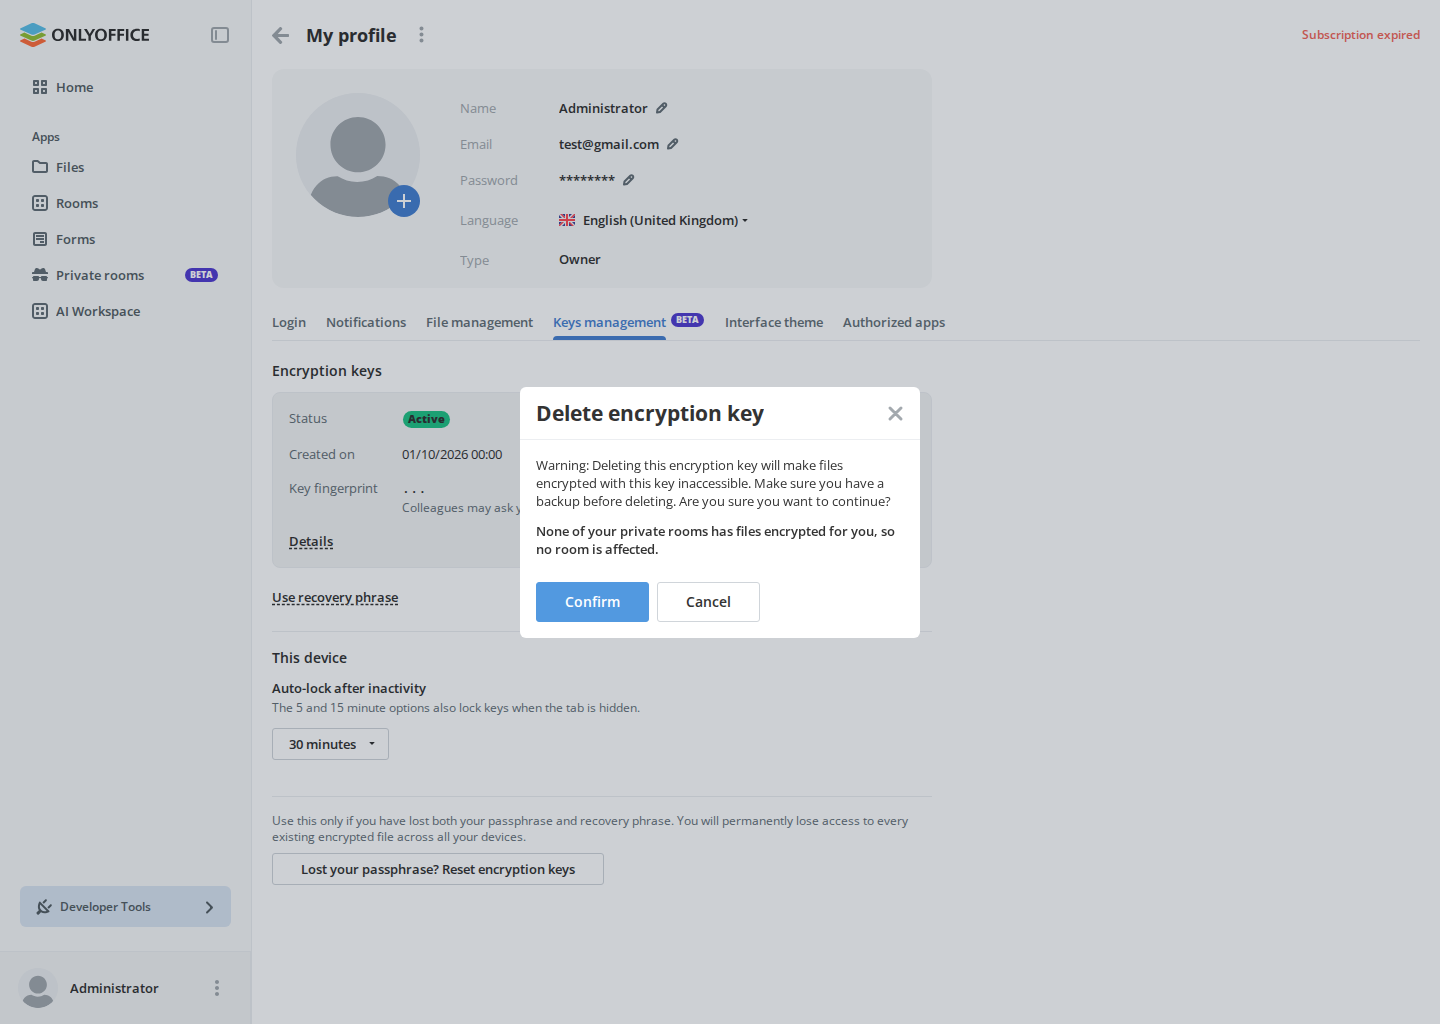
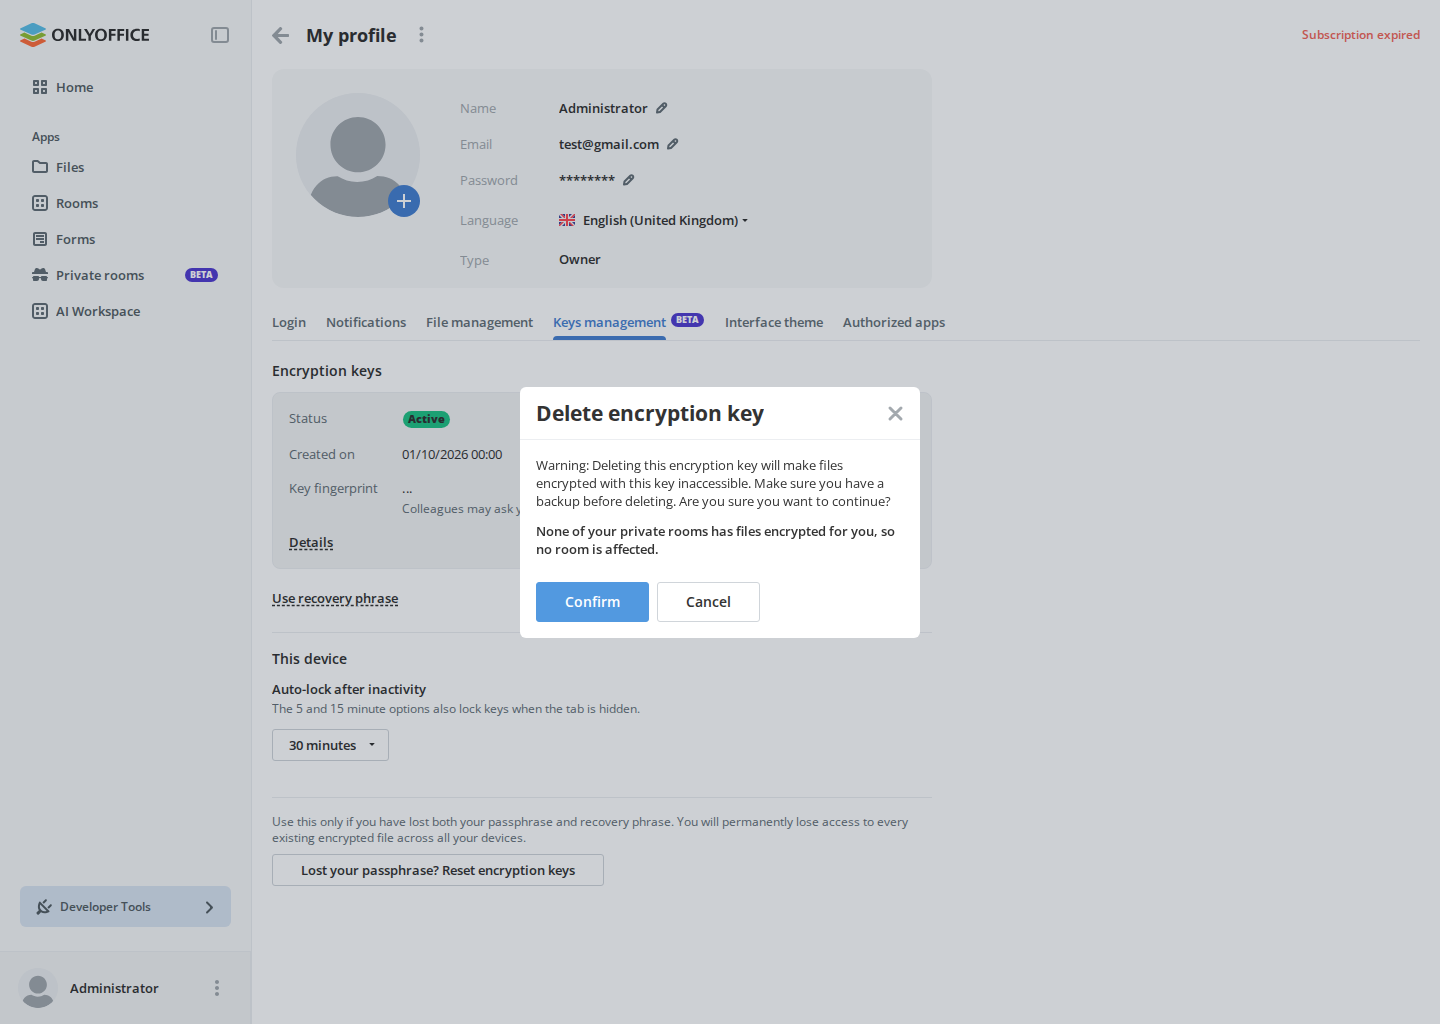
Client: Private rooms: show the key fingerprint in groups of eight
Keys management printed the fingerprint as one string of 64 characters,
while the key-change dialog a colleague sees writes it in groups of
eight. The grouping moves from that dialog to the encryption services of
the shared package, and both places use it. The key card renders each
group as an unbreakable piece, so a narrow card wraps the fingerprint
between groups and never inside one.

The card tests mock a real 64-character fingerprint instead of a word and
gain the case "Grouped fingerprint"; the function has a test of its own,
and the key-change dialog tests pass unchanged. The screenshot of the
delete warning changes only in the placeholder the card shows while the
mocked key has no fingerprint.

OpenSpec: private-rooms-key-ux-refresh 3.1

diff --git a/packages/client/src/pages/Profile/Section/Body/sub-components/keys-management/__tests__/KeysList.test.tsx b/packages/client/src/pages/Profile/Section/Body/sub-components/keys-management/__tests__/KeysList.test.tsx
@@ -6,7 +6,7 @@
  */
 
 import React from "react";
-import { render, screen, within } from "@testing-library/react";
+import { render, screen, waitFor, within } from "@testing-library/react";
 import userEvent from "@testing-library/user-event";
 import { describe, expect, it, vi } from "vitest";
 
@@ -32,10 +32,14 @@ vi.mock("@onlyoffice/apps-ui-kit/components/badge", () => ({
 }));
 
 vi.mock("@docspace/shared/services/encryption/identity", () => ({
-  getPublicKeyFingerprint: vi.fn(async () => "FINGERPRINT"),
+  getPublicKeyFingerprint: vi.fn(async () => "0123456789ABCDEF".repeat(4)),
 }));
 
 import { KeysList } from "../KeysList";
+
+// The mocked fingerprint: 64 hexadecimal characters, as a SHA-256 is.
+const FINGERPRINT = "0123456789ABCDEF".repeat(4);
+const GROUPED = FINGERPRINT.match(/.{8}/g)!.join(" ");
 import { KEY_STATUS_BADGE_COLORS } from "../keyStatusBadgeColors";
 
 const keyOld = {
@@ -198,7 +202,7 @@ describe("The fingerprint says what it is for", () => {
     renderList([keyNew]);
 
     const fingerprint = await screen.findByTestId("key_fingerprint");
-    expect(fingerprint).toHaveTextContent("FINGERPRINT");
+    expect(fingerprint).toHaveTextContent(GROUPED);
     expect(screen.getByText("Common:KeyFingerprintHint")).toBeVisible();
     expect(fingerprint).toHaveAccessibleDescription("Common:KeyFingerprintHint");
   });
@@ -211,7 +215,10 @@ describe("Technical key details are folded", () => {
   it("Page opens", async () => {
     renderList([keyNew]);
 
-    expect(await screen.findByText("FINGERPRINT")).toBeVisible();
+    expect(await screen.findByTestId("key_fingerprint")).toHaveTextContent(
+      GROUPED,
+    );
+    expect(screen.getByTestId("key_fingerprint")).toBeVisible();
     expect(screen.getByText("Common:KeyCreatedOn")).toBeVisible();
     expect(screen.getByTestId("badge")).toBeVisible();
     expect(screen.getByText("new")).not.toBeVisible();
@@ -240,5 +247,20 @@ describe("Technical key details are folded", () => {
     await user.keyboard(" ");
     expect(toggle()).toHaveAttribute("aria-expanded", "true");
     expect(screen.getByText("X25519")).toBeVisible();
+  });
+});
+
+describe("Key fingerprint is shown in groups", () => {
+  it("Grouped fingerprint", async () => {
+    renderList([keyNew]);
+
+    const fingerprint = await screen.findByTestId("key_fingerprint");
+    await waitFor(() => expect(fingerprint).toHaveTextContent(GROUPED));
+    const groups = within(fingerprint)
+      .getAllByTestId("key_fingerprint_group")
+      .map((group) => group.textContent);
+    expect(groups).toHaveLength(8);
+    expect(groups.join("")).toBe(FINGERPRINT);
+    for (const group of groups) expect(group).toHaveLength(8);
   });
 });

diff --git a/packages/shared/services/encryption/fingerprint.ts b/packages/shared/services/encryption/fingerprint.ts
@@ -1,0 +1,55 @@
+/*
+ * Copyright (C) Ascensio System SIA, 2009-2026
+ *
+ * This program is a free software product. You can redistribute it and/or
+ * modify it under the terms of the GNU Affero General Public License (AGPL)
+ * version 3 as published by the Free Software Foundation, together with the
+ * additional terms provided in the LICENSE file.
+ *
+ * This program is distributed WITHOUT ANY WARRANTY; without even the implied
+ * warranty of MERCHANTABILITY or FITNESS FOR A PARTICULAR PURPOSE. For
+ * details, see the GNU AGPL at: https://www.gnu.org/licenses/agpl-3.0.html
+ *
+ * You can contact Ascensio System SIA by email at info@onlyoffice.com
+ * or by postal mail at 20A-6 Ernesta Birznieka-Upisha Street, Riga,
+ * LV-1050, Latvia, European Union.
+ *
+ * The interactive user interfaces in modified versions of the Program
+ * are required to display Appropriate Legal Notices in accordance with
+ * Section 5 of the GNU AGPL version 3.
+ *
+ * No trademark rights are granted under this License.
+ *
+ * All non-code elements of the Product, including illustrations,
+ * icon sets, and technical writing content, are licensed under the
+ * Creative Commons Attribution-ShareAlike 4.0 International License:
+ * https://creativecommons.org/licenses/by-sa/4.0/legalcode
+ *
+ * This license applies only to such non-code elements and does not
+ * modify or replace the licensing terms applicable to the Program's
+ * source code, which remains licensed under the GNU Affero General
+ * Public License v3.
+ *
+ * SPDX-License-Identifier: AGPL-3.0-only
+ */
+
+
+const FINGERPRINT_GROUP_LENGTH = 8;
+
+/**
+ * The groups of eight characters a key fingerprint is shown in, so it can
+ * be read aloud to a colleague and compared group by group.
+ * Spec: private-rooms/key-management, "Key fingerprint is shown in groups"
+ */
+export function splitFingerprint(hex: string): string[] {
+  const groups: string[] = [];
+  for (let i = 0; i < hex.length; i += FINGERPRINT_GROUP_LENGTH) {
+    groups.push(hex.slice(i, i + FINGERPRINT_GROUP_LENGTH));
+  }
+  return groups;
+}
+
+/** A key fingerprint as groups of eight characters separated by spaces. */
+export function formatFingerprint(hex: string): string {
+  return splitFingerprint(hex).join(" ");
+}

diff --git a/packages/client/src/pages/Profile/Section/Body/sub-components/keys-management/KeysList.tsx b/packages/client/src/pages/Profile/Section/Body/sub-components/keys-management/KeysList.tsx
@@ -51,6 +51,7 @@ import DownloadReactSvgUrl from "PUBLIC_DIR/images/icons/16/download.react.svg?u
 import PencilReactSvgUrl from "PUBLIC_DIR/images/pencil.react.svg?url";
 
 import { getPublicKeyFingerprint } from "@docspace/shared/services/encryption/identity";
+import { splitFingerprint } from "@docspace/shared/services/encryption/fingerprint";
 import { activateAsButton } from "@docspace/shared/dialogs/key-dialog-keys";
 import { selectUserKey } from "@docspace/shared/services/encryption/select-user-key";
 import type { TEncryptionKeyPair } from "@docspace/shared/api/privacy/types";
@@ -183,11 +184,23 @@ const KeyItem: React.FC<KeyItemProps> = ({
           <div className={styles.fingerprintCell}>
             <Text
               fontSize="13px"
-              className={styles.monoValue}
+              className={`${styles.monoValue} ${styles.fingerprintValue}`}
               aria-describedby={fingerprintHintId}
               data-testid="key_fingerprint"
             >
-              {fingerprint || "..."}
+              {fingerprint
+                ? splitFingerprint(fingerprint).map((group, index) => (
+                    <React.Fragment key={`${index}-${group}`}>
+                      {index > 0 ? " " : null}
+                      <span
+                        className={styles.fingerprintGroup}
+                        data-testid="key_fingerprint_group"
+                      >
+                        {group}
+                      </span>
+                    </React.Fragment>
+                  ))
+                : "..."}
             </Text>
             <Text
               id={fingerprintHintId}

diff --git a/packages/shared/dialogs/key-change-dialog/KeyChangeDialog.tsx b/packages/shared/dialogs/key-change-dialog/KeyChangeDialog.tsx
@@ -45,20 +45,13 @@ import { Button, ButtonSize } from "@onlyoffice/apps-ui-kit/components/button";
 import { Text } from "@onlyoffice/apps-ui-kit/components/text";
 
 import { getPublicKeyFingerprint } from "../../services/encryption/identity";
+import { formatFingerprint } from "../../services/encryption/fingerprint";
 import { LATIN_NUMBERING_SYSTEM } from "../../utils/latin-digits";
 
 import { formatDurationSince } from "./formatDuration";
 
 import type { KeyChangeDialogProps } from "./KeyChangeDialog.types";
 import styles from "./KeyChangeDialog.module.scss";
-
-function formatFingerprint(hex: string): string {
-  const groups: string[] = [];
-  for (let i = 0; i < hex.length; i += 8) {
-    groups.push(hex.slice(i, i + 8));
-  }
-  return groups.join(" ");
-}
 
 function formatDate(ts: number, locale: string): string {
   try {

diff --git a/packages/shared/services/encryption/__tests__/fingerprint.test.ts b/packages/shared/services/encryption/__tests__/fingerprint.test.ts
@@ -1,0 +1,25 @@
+import { describe, expect, it } from "vitest";
+
+import { formatFingerprint, splitFingerprint } from "../fingerprint";
+
+const HEX64 = "0123456789ABCDEF".repeat(4);
+
+describe("Key fingerprint is shown in groups", () => {
+  it("Grouped fingerprint", () => {
+    const groups = splitFingerprint(HEX64);
+
+    expect(groups).toHaveLength(8);
+    for (const group of groups) expect(group).toHaveLength(8);
+    expect(groups.join("")).toBe(HEX64);
+    expect(formatFingerprint(HEX64)).toBe(groups.join(" "));
+  });
+
+  it("keeps a short last group", () => {
+    expect(splitFingerprint("ABCDEFGH12")).toEqual(["ABCDEFGH", "12"]);
+  });
+
+  it("returns no group for an empty value", () => {
+    expect(splitFingerprint("")).toEqual([]);
+    expect(formatFingerprint("")).toBe("");
+  });
+});

diff --git a/packages/client/src/pages/Profile/Section/Body/sub-components/keys-management/KeysManagement.module.scss b/packages/client/src/pages/Profile/Section/Body/sub-components/keys-management/KeysManagement.module.scss
@@ -144,6 +144,15 @@
   min-width: 0;
 }
 
+.fingerprintValue {
+  word-break: normal;
+  overflow-wrap: normal;
+}
+
+.fingerprintGroup {
+  white-space: nowrap;
+}
+
 .fingerprintHint {
   color: var(--text-secondary);
   line-height: 16px;

diff --git a/openspec/changes/private-rooms-key-ux-refresh/tasks.md b/openspec/changes/private-rooms-key-ux-refresh/tasks.md
@@ -19,7 +19,7 @@ and SDK unit tests must stay green.
 
 ## 3. Fingerprint in groups
 
-- [ ] 3.1 Move the grouping of a fingerprint from `packages/shared/dialogs/key-change-dialog/KeyChangeDialog.tsx` to `packages/shared/services/encryption` and use it in `packages/client/src/pages/Profile/Section/Body/sub-components/keys-management/KeysList.tsx`, with a style that wraps only between groups. Verify: a unit test of the function, a case "Grouped fingerprint" in `keys-management/__tests__/KeysList.test.tsx`, the key-change dialog tests unchanged, and the Keys management screenshots updated under Docker
+- [x] 3.1 Move the grouping of a fingerprint from `packages/shared/dialogs/key-change-dialog/KeyChangeDialog.tsx` to `packages/shared/services/encryption` and use it in `packages/client/src/pages/Profile/Section/Body/sub-components/keys-management/KeysList.tsx`, with a style that wraps only between groups. Verify: a unit test of the function, a case "Grouped fingerprint" in `keys-management/__tests__/KeysList.test.tsx`, the key-change dialog tests unchanged, and the Keys management screenshots updated under Docker
 
 ## 4. Key state indicator
 
